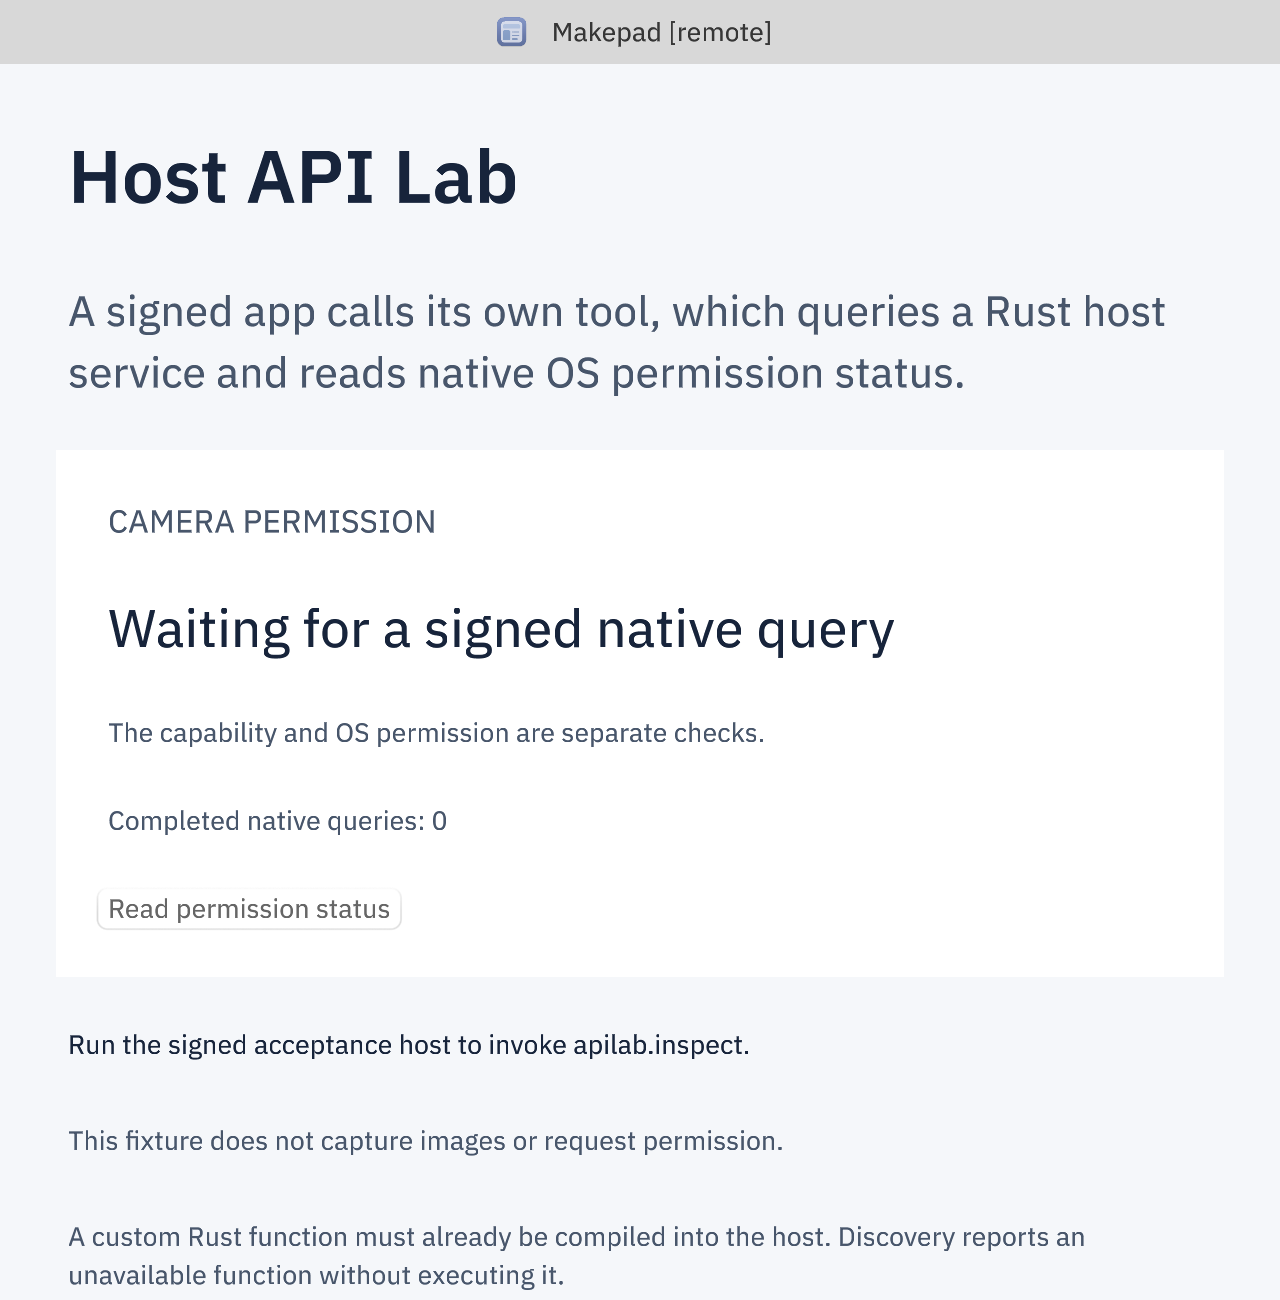
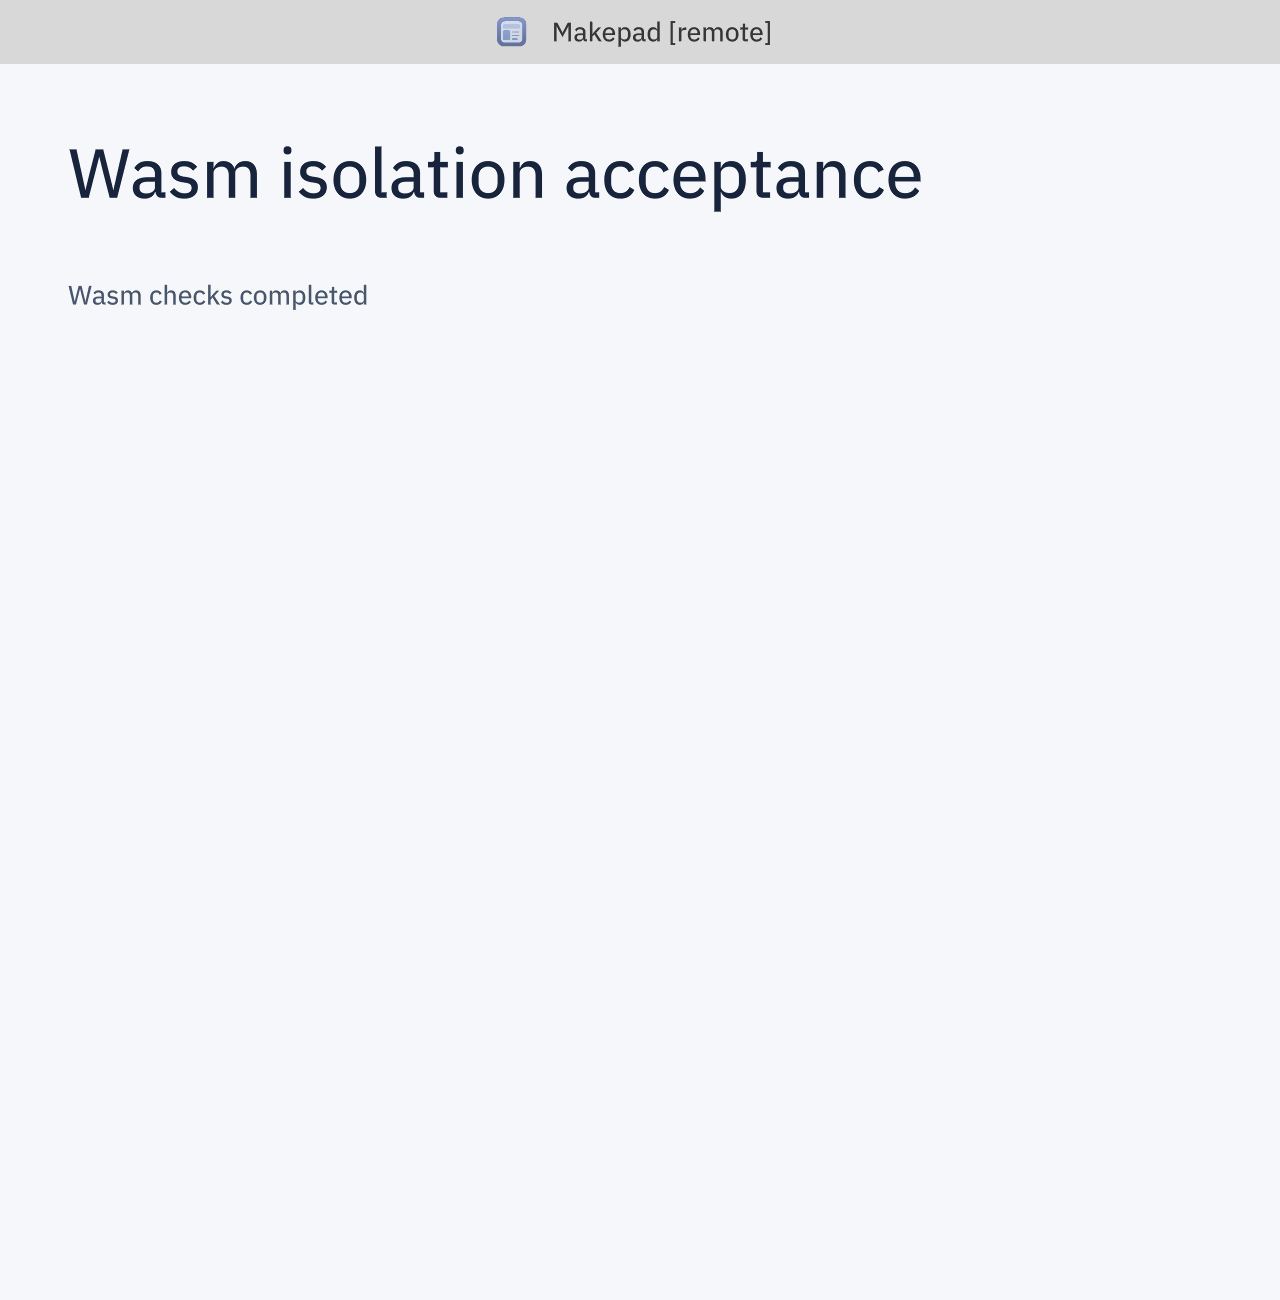
test(wasm): use actual native fixture capture in listing

diff --git a/tools/fixtures/wasm-phone-lab/README.md b/tools/fixtures/wasm-phone-lab/README.md
@@ -23,3 +23,5 @@ cargo run --locked --offline -p octosense-wasm-host --example encode_phone_fixtu
 ```
 
 The guest deliberately remembers input if its instance is reused. Passing requires the host to create a new instance, including after success. Earlier 19-check evidence used explicit result fields and did not prove raw response forwarding; the repaired raw path adds that check, and the reproducible harness adds two compiled-identity checks. The [OnePlus 6 receipt](acceptance-oneplus6.json) records **22/22 checks passed** on Android 15, built from source `e67ce63ebca6054961899691e1644a54c2b4f081` with runtime tree `0fc8e29e2411fd7eb94d845ba16a261d2ebc9dfc`. The build and driver commands above were executed with local tool paths. Live model/peer relay, performance and release APK behavior remain unverified.
+
+The listing image is a separate native macOS capture of this fixture after its signed app tool completed, made in a hidden Makepad window from source `d3535a95`. It is not a phone screenshot and does not extend the 22-check OnePlus receipt to the later screenshot-only change. The image and refreshed fixture digest replace the earlier unrelated Host API Lab image.

diff --git a/tools/fixtures/wasm-phone-lab/README.zh-CN.md b/tools/fixtures/wasm-phone-lab/README.zh-CN.md
@@ -23,3 +23,5 @@ cargo run --locked --offline -p octosense-wasm-host --example encode_phone_fixtu
 ```
 
 客体在实例复用时会主动保留输入；通过测试要求宿主在每次调用（包括成功调用）之后创建新实例。先前的 19 项结果使用了显式组装的字段，不能证明原始响应转发。修复后的原始路径增加一项转发检查，可复现的公开测试还增加两项编译标识检查。[OnePlus 6 回执](acceptance-oneplus6.json)记录 Android 15 上 **22/22 项通过**，构建源码为 `e67ce63ebca6054961899691e1644a54c2b4f081`，运行时树为 `0fc8e29e2411fd7eb94d845ba16a261d2ebc9dfc`。上面的构建和驱动命令已使用本机工具路径执行。真实模型/对等代理转发、性能和发布 APK 行为仍未验证。
+
+应用列表图片是单独在 macOS 隐藏 Makepad 窗口中捕获的真实界面，源码为 `d3535a95`，拍摄时此测试应用的签名应用工具已经完成。它不是手机截图，也不把 OnePlus 的 22 项回执扩展到后续仅替换图片的提交。该图片及更新后的测试包摘要替换了先前无关的 Host API Lab 图片。
